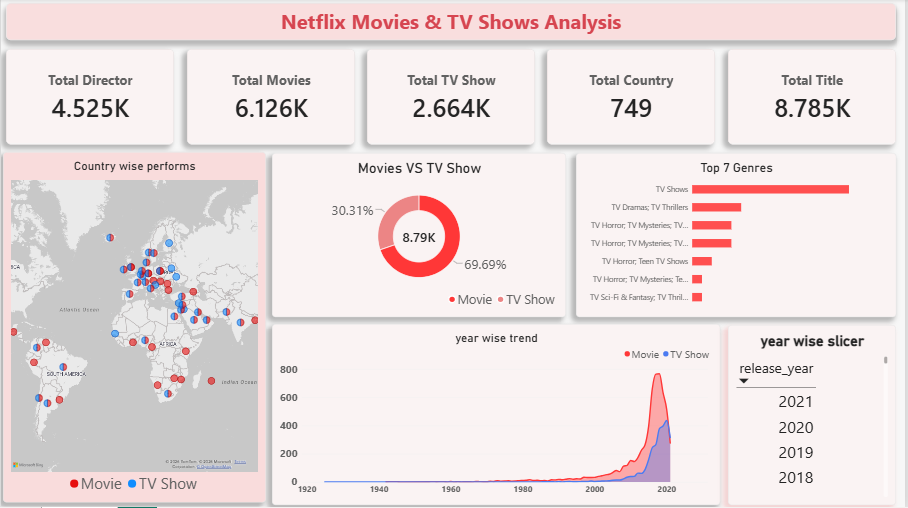
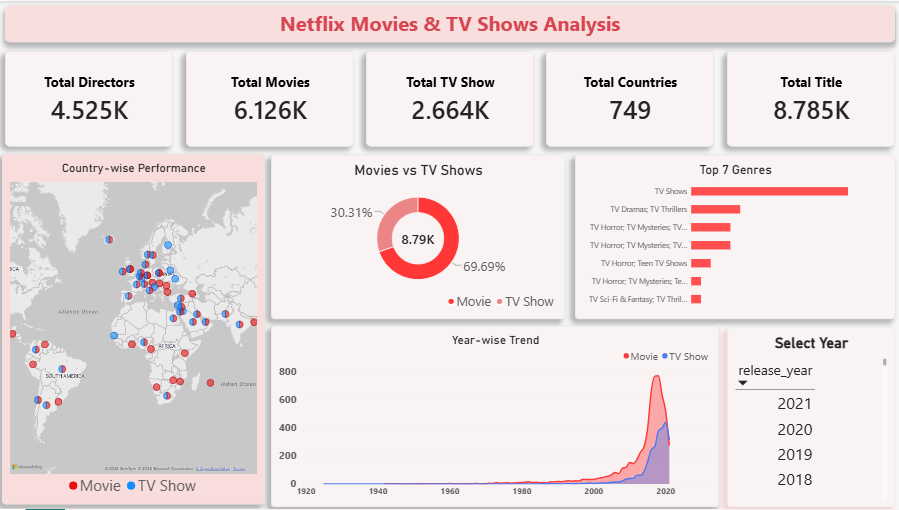
update

diff --git a/main.py b/main.py
@@ -1,33 +1,33 @@
 
 
-# # df = pd.read_csv("netflix_titles.csv")
-
-# # drop column and row not needed
-# df = df.drop(columns=['description'])
-
-# df = df.dropna(subset=['date_added',  'rating' , 'duration'])
-
-# #  fillna values with 'Unknown' for specific columns
-# df['director'] = df['director'].fillna('Unknown')
-# df['cast'] = df['cast'].fillna('Unknown')
-# df['country'] = df['country'].fillna('Unknown')
-
-# df['cast'] = df['cast'].str.replace(', ', '; ')
-# df['director'] = df['director'].str.replace(', ', '; ')
-# df['country'] = df['country'].str.replace(', ', '; ')
-# df['listed_in'] = df['listed_in'].str.replace(', ', '; ')
-
-# df['date_added'] = df['date_added'].str.strip()
-
-# df['date_added'] = pd.to_datetime(df['date_added'])
-
-# df.to_csv("netflix_cleaned.csv", index=False)
-
-
-
 import pandas as pd
 from sqlalchemy import create_engine
 from urllib.parse import quote_plus
+
+
+df = pd.read_csv("netflix_titles.csv")
+
+# drop column and row not needed
+df = df.drop(columns=['description'])
+
+df = df.dropna(subset=['date_added',  'rating' , 'duration'])
+
+#  fillna values with 'Unknown' for specific columns
+df['director'] = df['director'].fillna('Unknown')
+df['cast'] = df['cast'].fillna('Unknown')
+df['country'] = df['country'].fillna('Unknown')
+
+df['cast'] = df['cast'].str.replace(', ', '; ')
+df['director'] = df['director'].str.replace(', ', '; ')
+df['country'] = df['country'].str.replace(', ', '; ')
+df['listed_in'] = df['listed_in'].str.replace(', ', '; ')
+
+df['date_added'] = df['date_added'].str.strip()
+
+df['date_added'] = pd.to_datetime(df['date_added'])
+
+df.to_csv("netflix_cleaned.csv", index=False)
+
 
 password = quote_plus('@amaan895463')  # apna poora actual password daalo
 username = 'root'
